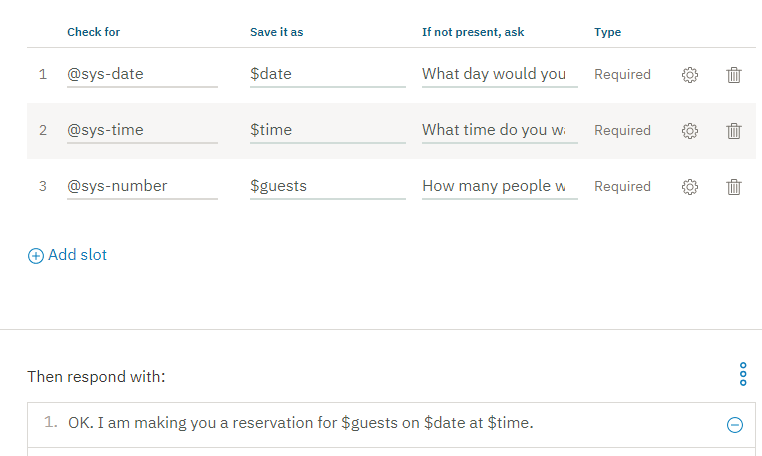
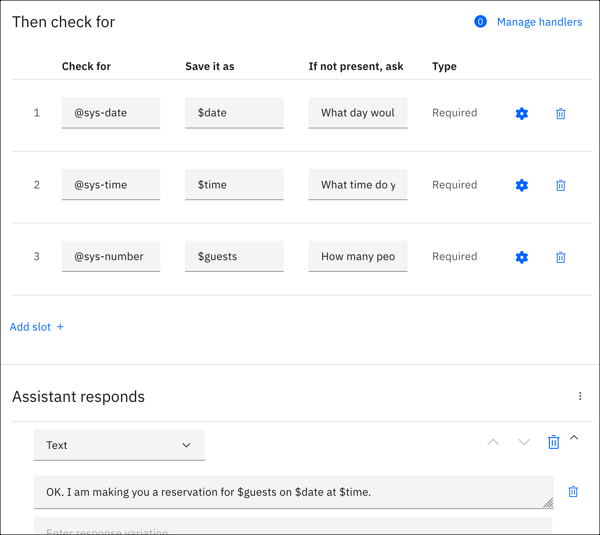
Slots updates

diff --git a/tutorial-slots.md b/tutorial-slots.md
@@ -2,7 +2,7 @@
 
 copyright:
   years: 2015, 2021
-lastupdated: "2021-01-05"
+lastupdated: "2021-04-08"
 
 subcollection: assistant
 content-type: tutorial
@@ -118,13 +118,13 @@ The node that you will add in this step is one that contains slots. Slots provid
 The node you add will collect the information required to make a reservation at a restaurant.
 
 1.  Click the **Dialogs** tab to open the dialog tree.
-1.  Click the More icon ![More options](images/kebab.png) on the **#General_Greetings** node, and then select **Add node below**.
-1.  Start typing `#reservation` in the condition field, and then select it from the list.
+1.  Click the More icon ![More options](images/kebab.png) on the **Welcome** node, and then select **Add node below**.
+1.  Start typing `#reservation` in the **If assistant recognizes** field, and then select it from the list.
     This node will be evaluated if the user input matches the `#reservation` intent.
 1.  Click **Customize**, set the **Slots** switch to **On**, and then click **Apply**.
 
     ![Shows the customize dialog where you turn on slots.](images/slots-toggle-on.png)
-1.  Define the following slots:
+1.  In the **Then check for** section, add the following slots:
 
     <table>
     <caption>Slot details</caption>
@@ -141,7 +141,7 @@ The node you add will collect the information required to make a reservation at 
     <tr>
       <td>@sys-time</td>
       <td>$time</td>
-      <td>What time do you want the reservation to be made for?</td>
+      <td>What time do you want for the reservation?</td>
     </tr>
     </tr>
     <tr>
@@ -151,7 +151,7 @@ The node you add will collect the information required to make a reservation at 
     </tr>
     </table>
 
-1.  As the response, specify `OK. I am making you a reservation for $guests on $date at $time.`
+1.  In the **Assistant responds** section, enter the text response `OK. I am making you a reservation for $guests on $date at $time.`
 
     ![Shows what each slot and the response look like in the tool when filled in as specified.](images/slots-simple-node.png)
 
@@ -161,7 +161,7 @@ The node you add will collect the information required to make a reservation at 
 {: #tutorial-slots-test}
 {: step}
 
-1.  Select the ![Ask Watson](images/ask_watson.png) icon to open the chat pane.
+1.  Click **Try it**.
 1.  Type `i want to make a reservation`.
 
     The assistant recognizes the #reservation intent, and it responds with the prompt for the first slot, `What day would you like to come in?`.
